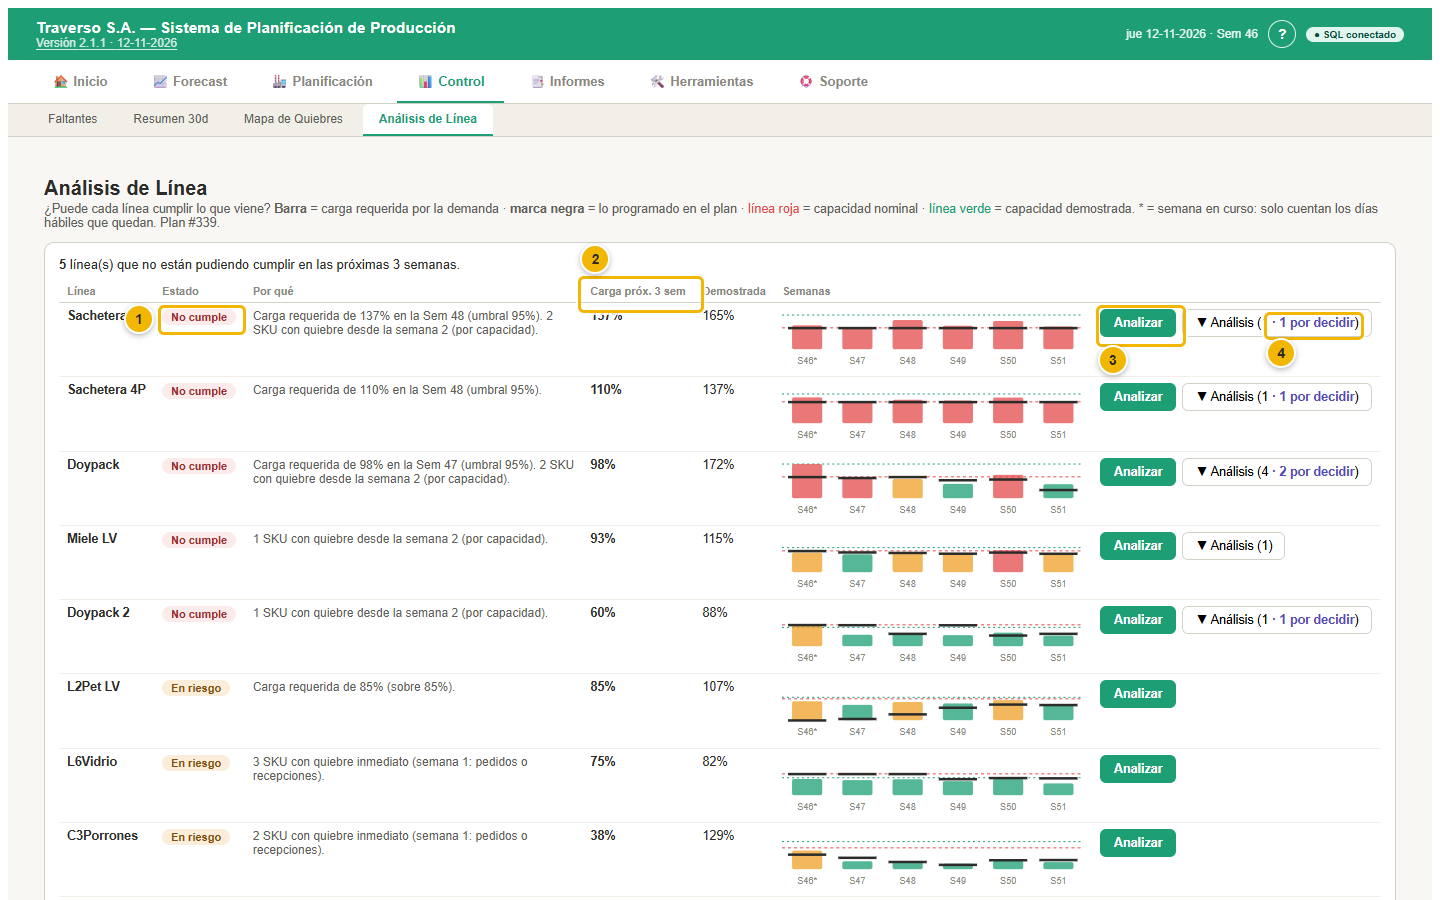
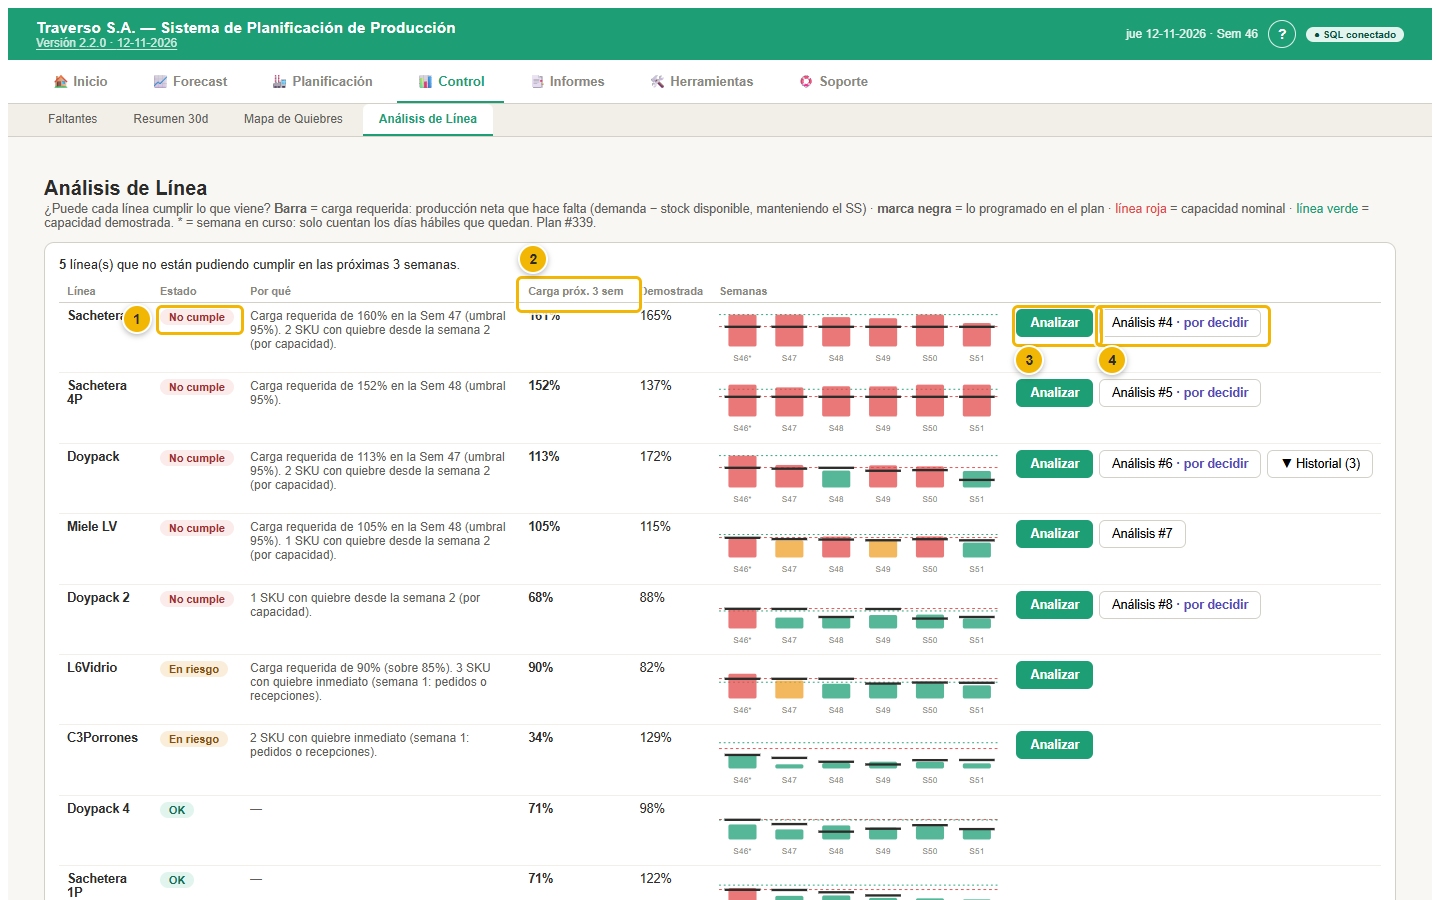
Ayuda y Academia: analisis vigente por linea (v2.2.0) y carga requerida neta (v2.1.2)

diff --git a/soporte_capturas/aplicar_soporte_v2_2_0.py b/soporte_capturas/aplicar_soporte_v2_2_0.py
@@ -1,0 +1,41 @@
+"""aplicar_soporte_v2_2_0.py — Ajusta en su lugar (sin pisar cambios de otros chats) el glosario y el guion
+de capturas para la v2.2.0 de Análisis de Línea. Correr desde la raíz del repo, después de git pull:
+    python soporte_capturas\\aplicar_soporte_v2_2_0.py
+Es idempotente: si ya se aplicó, no cambia nada."""
+import json
+from pathlib import Path
+
+G = Path("forecast/soporte_contenido/ayuda/glosario.json")
+S = Path("soporte_capturas/guion_planificador.json")
+cambios = []
+
+g = json.loads(G.read_text(encoding="utf-8"))
+ids = {t["id"] for t in g}
+for t in g:
+    if t["id"] == "carga-requerida":
+        nueva = ("Producción neta que hace falta en una línea: la demanda menos el stock disponible, manteniendo el stock "
+                 "de seguridad. Se expresa como % de la capacidad nominal. Una línea con mucho stock aparece menos exigida "
+                 "que si se mirara solo la demanda.")
+        if t["definicion"] != nueva:
+            t["definicion"] = nueva; t["sinonimos"] = ["requerido", "necesidad neta"]; cambios.append("carga-requerida")
+nuevos = [
+    {"id": "analisis-vigente", "termino": "Análisis vigente", "nombre": "Análisis vigente de una línea",
+     "definicion": "El análisis más reciente de una línea en Análisis de Línea (botón \"Análisis #N\"). Es el único que se decide y se valida con solver; los anteriores quedan en el Historial, solo para consulta.",
+     "sinonimos": ["análisis actual", "caso vigente"], "pantallas": ["analisislinea"]},
+    {"id": "reemplazado", "termino": "Reemplazado", "nombre": "Análisis reemplazado",
+     "definicion": "Estado de un análisis anterior que no se había decidido cuando se abrió uno nuevo de la misma línea. Queda en el Historial en solo lectura, no se decide y sus validaciones programadas se cancelan. No es un descarte: no cuenta como decisión para el aprendizaje.",
+     "sinonimos": ["reemplazado por"], "pantallas": ["analisislinea"]},
+]
+for n in nuevos:
+    if n["id"] not in ids:
+        g.append(n); cambios.append(n["id"])
+G.write_text(json.dumps(g, ensure_ascii=False, indent=1), encoding="utf-8")
+
+s = json.loads(S.read_text(encoding="utf-8"))
+for c in s["capturas"]:
+    if c["archivo"] == "plan__analisislinea.png":
+        nuevas = [a for a in c["anotaciones"] if a["n"] != 4] + [{"n": 4, "texto": "Análisis #", "pos": "abajo", "opcional": True}]
+        if nuevas != c["anotaciones"]:
+            c["anotaciones"] = nuevas; cambios.append("guion plan__analisislinea")
+S.write_text(json.dumps(s, ensure_ascii=False, indent=1), encoding="utf-8")
+print("Cambios:", ", ".join(cambios) if cambios else "ninguno (ya estaba aplicado)")

diff --git a/forecast/soporte_contenido/academia/unidades/plan-analisislinea.md b/forecast/soporte_contenido/academia/unidades/plan-analisislinea.md
@@ -3,7 +3,7 @@ titulo: Análisis de Línea: leer el semáforo
 objetivo: Identificar qué líneas no alcanzan a cubrir lo que viene y cómo pedir un análisis.
 minutos: 10
 puntos: 100
-version: 1
+version: 2
 ayuda: analisislinea
 por_que: Un quiebre por capacidad se ve venir semanas antes. El semáforo te avisa qué línea no va a alcanzar, a tiempo para extender un turno, mover producción o ajustar parámetros.
 desafio: En Análisis de Línea, encuentra una línea "No cumple" y lee en su fila qué semana supera la capacidad y por qué.
@@ -13,9 +13,9 @@ desafio: En Análisis de Línea, encuentra una línea "No cumple" y lee en su fi
 
 Cada fila es una línea, ordenadas de la más comprometida a la menos:
 1. **Estado**: **No cumple** (rojo), **En riesgo** (ámbar) u **OK** (verde), con el **por qué** al lado.
-2. **Carga próx. 3 sem** y **Demostrada**: la [[g:carga-requerida]] de las próximas 3 semanas y la [[g:capacidad-demostrada]] de la línea.
+2. **Carga próx. 3 sem** y **Demostrada**: la [[g:carga-requerida]] de las próximas 3 semanas (la producción neta que hace falta: demanda menos stock disponible, manteniendo el stock de seguridad) y la [[g:capacidad-demostrada]] de la línea.
 3. **Analizar**: en aproximadamente un minuto entrega las causas, las [[g:palancas]] en orden de esfuerzo y una recomendación.
-4. **Análisis (n · m por decidir)**: los casos ya abiertos de esa línea y cuántos esperan una decisión.
+4. **Análisis #N**: el análisis vigente de la línea, con "· por decidir" si espera una decisión. Los anteriores están en **Historial (n)**, solo para consulta.
 
 En el gráfico de semanas de cada fila: la **barra** es la carga requerida, la **marca negra** lo programado en el plan, la **línea roja** la capacidad nominal (100%) y la **línea verde** la capacidad demostrada. El asterisco (S46*) marca la semana en curso.
 
@@ -26,6 +26,9 @@ En el gráfico de semanas de cada fila: la **barra** es la carga requerida, la *
 
 Si la barra supera la marca negra, el plan no alcanzó a programar todo lo que la demanda pide. La capacidad nominal sigue el calendario de turnos de cada línea y no cuenta feriados.
 
+## Un análisis vigente por línea
+Cada línea tiene un solo análisis vigente: el más reciente. Cuando se abre uno nuevo, los anteriores que no se habían decidido quedan **"reemplazado por #N"** y ya no se deciden, porque sus cifras quedaron desactualizadas. Lo ya decidido se mantiene, y las acciones aceptadas que aún no se ejecutan aparecen en el vigente para cerrarlas.
+
 **Nada se aplica solo**: el análisis recomienda y una persona decide. Decidir un caso (con PIN) se ve en la ruta Administración.
 
 ```cuestionario
@@ -33,6 +36,7 @@ Si la barra supera la marca negra, el plan no alcanzó a programar todo lo que l
  {"id": "p1", "pregunta": "Una línea aparece como \"No cumple\". ¿Qué puede significar?", "opciones": ["Que su carga requerida supera el 95% en alguna de las próximas 3 semanas", "Que tiene paradas no planificadas hoy", "Que no tiene forecast", "Que su producción real fue baja ayer"], "correcta": 0, "explicacion": "Rojo: carga sobre 95% en las próximas 3 semanas, o quiebre por capacidad desde la semana 2."},
  {"id": "p2", "pregunta": "En el gráfico de una línea, la barra supera la marca negra. ¿Qué indica?", "opciones": ["Que el plan programó más de lo necesario", "Que el plan no alcanzó a programar todo lo que pide la demanda", "Que la línea está detenida", "Nada importante"], "correcta": 1, "explicacion": "La barra es lo requerido y la marca negra lo programado."},
  {"id": "p3", "pregunta": "¿Qué representa la línea verde?", "opciones": ["La capacidad nominal", "La capacidad demostrada: lo que la línea ha producido realmente", "El forecast", "El stock de seguridad"], "correcta": 1, "explicacion": "La línea verde es la capacidad demostrada en las últimas semanas."},
+ {"id": "p5", "pregunta": "Una línea tenía el análisis #12 sin decidir y hoy se abrió el #15. ¿Qué pasa con el #12?", "opciones": ["Se decide igual, junto con el #15", "Queda \"reemplazado por #15\": pasa al Historial y ya no se decide", "Se borra", "Cuenta como descartado"], "correcta": 1, "explicacion": "Solo el análisis vigente se decide. Los anteriores sin decidir quedan reemplazados, y eso no cuenta como descarte."},
  {"id": "p4", "pregunta": "¿El análisis aplica cambios automáticamente en los parámetros?", "opciones": ["Sí, siempre", "No: recomienda y una persona decide", "Solo en líneas rojas", "Solo de noche"], "correcta": 1, "explicacion": "El sistema propone; las decisiones las toma una persona."}
 ]
 ```

diff --git a/forecast/soporte_contenido/ayuda/pantallas/analisislinea.md b/forecast/soporte_contenido/ayuda/pantallas/analisislinea.md
@@ -1,7 +1,7 @@
 ---
 titulo: Análisis de Línea
 seccion: Control
-resumen: Semáforo de capacidad por línea, diagnóstico y acciones recomendadas.
+resumen: Semáforo de capacidad por línea, análisis vigente con diagnóstico, acciones recomendadas y decisión.
 orden: 48
 actualizado: 2026-11-12
 ---
@@ -14,24 +14,32 @@ Responde: **¿puede cada línea cumplir lo que viene?** Muestra el [[g:semaforo|
 - Una fila por línea, de la más comprometida a la menos, con su **estado** (**No cumple**, **En riesgo** u **OK**) y el **por qué**.
 - **Carga próx. 3 sem** ([[g:carga-requerida]]) y **Demostrada** ([[g:capacidad-demostrada]]).
 - Un gráfico por semana:
-  - **Barra**: carga requerida por la demanda.
+  - **Barra**: carga requerida, es decir, la producción neta que hace falta (demanda menos stock disponible, manteniendo el stock de seguridad).
   - **Marca negra**: [[g:uso-programado]] en el plan.
   - **Línea roja**: capacidad nominal (100%).
   - **Línea verde**: capacidad demostrada.
-- **Análisis (n · m por decidir)**: casos abiertos de la línea, automáticos (los abre el sistema tras el plan diario) o manuales.
+- **Análisis #N**: el [[g:analisis-vigente]] de la línea, con "· por decidir" si todavía no tiene decisión.
+- **Historial (n)**: los análisis anteriores de la línea, solo para consulta.
 
 ## Cómo se usa
 1. Revisa las líneas **No cumple** y **En riesgo**.
-2. Usa **Analizar** en una línea: en aproximadamente un minuto entrega causas, [[g:palancas]] en orden de esfuerzo y una recomendación.
-3. Revisa las acciones recomendadas: efecto, costo o riesgo.
+2. Usa **Analizar** en una línea: en aproximadamente un minuto entrega causas, [[g:palancas]] en orden de esfuerzo y una recomendación. Ese análisis pasa a ser el vigente.
+3. Abre **Análisis #N** y revisa las acciones recomendadas: efecto, costo o riesgo.
 4. Si quieres comprobar una palanca, usa **Validar con solver esta noche** (se ejecuta desde las 21:00).
 5. Registra **tu decisión**: aceptar todo, aceptar solo las acciones marcadas o descartar. Pide tu nombre, el [[g:pin]] y un motivo.
 
+## Un solo análisis vigente por línea
+- Cada línea tiene **un análisis vigente**: el más reciente. Es el único que se decide y se valida con solver.
+- Cuando se abre un análisis nuevo (manual o automático tras el plan diario), los anteriores **sin decidir** quedan **"reemplazado por #N"**: pasan al Historial en solo lectura, ya no se deciden y sus validaciones programadas se cancelan, porque sus cifras quedaron desactualizadas.
+- Lo **ya decidido no cambia**. Si un análisis anterior tiene acciones aceptadas que aún no se ejecutan, aparecen en el vigente bajo **"Acciones pendientes de análisis anteriores de esta línea"**, para marcarlas como hechas o descartarlas (con tu nombre y PIN de la sección "Tu decisión"). Las que son cambios de parámetros se cierran al aplicarlas en Herramientas → Parámetros.
+- Un análisis **reemplazado no es un descarte**: no cuenta como decisión para el aprendizaje del sistema.
+
 ## Cómo leer los datos
+- La carga requerida es **neta de stock**: una línea con mucho stock de sus productos aparece menos exigida que si se mirara solo la demanda.
 - La capacidad nominal (100%) sigue el calendario de turnos de cada línea (por defecto la [[g:jornada-42h]]), sin contar feriados, e incluye turnos adicionales vigentes y excepciones por fecha.
 - **No cumple** (rojo): carga requerida sobre 95% en alguna de las próximas 3 semanas, o quiebre por capacidad desde la semana 2.
 - **En riesgo** (ámbar): carga sobre 85%, o quiebre inmediato en la semana 1.
-- Si la barra supera la marca negra, el plan no alcanzó a programar lo que la demanda pide.
+- Si la barra supera la marca negra, el plan no alcanzó a programar lo que hace falta producir.
 - **Nada se aplica solo**: los cambios de parámetros aceptados pasan como recomendaciones al panel de Parámetros.
 - Los motivos de descarte también sirven: el sistema los considera en los próximos análisis.
 
